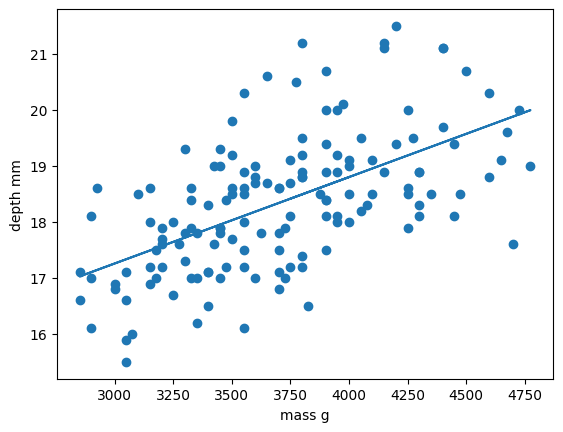
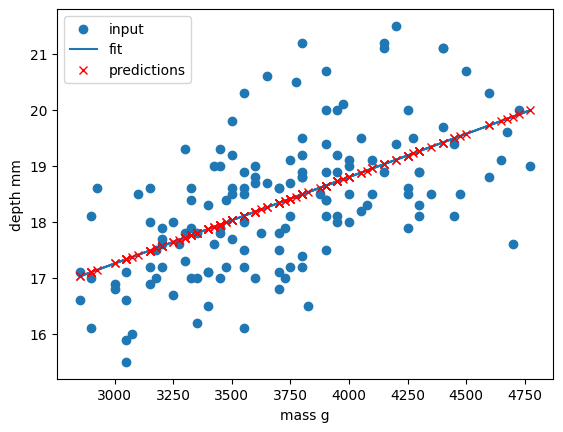
Update figures and code for regression

diff --git a/episodes/02-regression.md b/episodes/02-regression.md
@@ -32,7 +32,7 @@ In this episode we will explore how we can use regression to build a "model" tha
 
 # Regression
 
-Regression is a statistical technique that relates a dependent variable (a label in ML terms) to one or more independent variables. A regression model attempts to describe this relation by fitting the data as closely as possible according to mathematical criteria. This model can then be used to predict new labelled values by inputting the independent variables into it. For example, if we create a house price model we can then feed in any datetime value we wish, and get a new house price value prediction.
+Regression is a statistical technique that relates a dependent variable (a label in ML terms) to one or more independent variables (features in ML terms). A regression model attempts to describe this relation by fitting the data as closely as possible according to mathematical criteria. This model can then be used to predict new labelled values by inputting the independent variables into it. For example, if we create a house price model we can then feed in any datetime value we wish, and get a new house price value prediction.
 
 Regression can be as simple as drawing a "line of best fit" through data points, known as linear regression, or more complex models such as polynomial regression, and is used routinely around the world in both industry and research. You may have already used regression in the past without knowing that it is also considered a machine learning technique!
 
@@ -116,10 +116,12 @@ def fit_a_linear_model(x, y):
 
     # visualise!
     # Don't call .show() here so that we can add extra stuff to the figure later
-    plt.plot(x_data, linear_data)
-    plt.scatter(x_data, y_data)
+    plt.scatter(x_data, y_data, label="input")
+    plt.plot(x_data, linear_data, "-", label="fit")
+    plt.plot(x_data, linear_data, "rx", label="predictions")
     plt.xlabel("x")
     plt.ylabel("y")
+    plt.legend()
 
     # calculated a RMS error as a quality of fit metric
     error = math.sqrt(mean_squared_error(y_data, linear_data))
@@ -207,7 +209,8 @@ def fit_a_poly_model(x,y):
     poly_data = poly_regress.predict(x_poly)
 
     # visualise!
-    plt.plot(x_data, poly_data)
+    plt.plot(x_data, poly_data, label="poly fit")
+    plt.legend()
 
     poly_error = math.sqrt(mean_squared_error(y_data,poly_data))
     print("poly error=", poly_error)
@@ -287,12 +290,15 @@ y_predictions = trained_model.predict(x_data_all)
 error = math.sqrt(mean_squared_error(y_data_all, y_predictions))
 print("penguin error=",error)
 
-plt.scatter(x_data_all, y_data_all)
-plt.scatter(x_data, y_data)
+plt.scatter(x_data_all, y_data_all, label="all data")
+plt.scatter(x_data, y_data, label="training data")
 
-plt.plot(x_data_all, y_predictions)
+plt.plot(x_data_all, y_predictions, label="fit")
+plt.plot(x_data_all, y_predictions, "rx", label="predictions")
+
 plt.xlabel("mass g")
 plt.ylabel("depth mm")
+plt.legend()
 plt.show()
 ~~~
 ![Comparison of the regressions of our dataset](../fig/regress_penguin_lin_tot.png)

diff --git a/episodes/01-introduction.md b/episodes/01-introduction.md
@@ -48,7 +48,7 @@ Machine learning has quickly become an important technology and is now frequentl
 * Image, object, and pattern recognition is used to identify humans and vehicles, capture text, generate subtitles, and much more
 * Self-driving cars and robots use object detection and performance feedback to improve their interaction with the world
 
-> #### Where else have you encountered machine learning already?
+> ### Where else have you encountered machine learning already?
 > Now that we have explored machine learning in a bit more detail, discuss with the person next to you:
 > 1. Where else have I seen machine learning in use?
 > 2. What kind of input data does that machine learning system use to make predictions/classifications?
